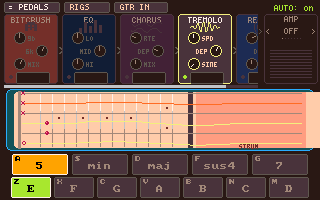
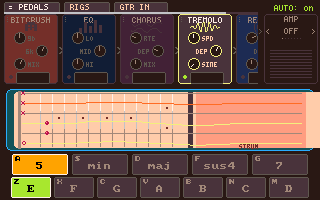
pedalboard: a downward strum no longer grabs the scrollbar or a pedal
The maker: strumming top-to-bottom, it is easy to "mess about in the horizontal
scrollbar" or "accidentaly grab a effect to reorder it".

Both were the same geometry problem, and the numbers are exact:

  pedals        y  14..84    press anywhere on a body = PICK UP TO REORDER
  scroll bar    y  84..90    a 6px GRAB TARGET
  pick zone     y  84..152   the strings

The scroll bar and the pick zone overlapped ON THE SAME 7 PIXELS, and the bar
was tested FIRST, so it swallowed every strum that started there. Two pixels
higher and you were dragging a pedal instead. There was no y at which "start
above the strings and swipe down" did what it looks like it does.

FIX, one split rather than two patches:

  LABEL STRIP (y PED_Y..PED_Y+12, now wearing grip dots) = the reorder handle.
  PEDAL BODY                                             = pan the chain 1:1.
  scroll bar                                             = gone as a target.

So a vertical swipe over the rack is a pan with ~zero horizontal delta, i.e.
harmless, and the 84..90 band falls through to the guitar. Reorder survives,
now on an explicit labelled handle -- which also makes the cart's own
description true, since it already claimed you drag a pedal "by its label".

The bar itself moves to the TOP of the rack (the maker's suggestion) and thins
6px -> 2px: away from the strum, and plainly a readout rather than something to
grab. Dragging a body is a better touch target than the bar ever was, and the
[…]

Changed region(s): [[0.0, 0.42, 0.8125, 0.45], [0.0, 0.06, 0.8125, 0.09]]

diff --git a/tools/carts/pedalboard.c b/tools/carts/pedalboard.c
@@ -14,7 +14,7 @@
     "granular-synth"
   ],
   "lineage": "Showcase cart for fx_order() (the reorderable effect insert chain); guitar fretboard with moveable barre-chord shapes is new to the library, as is the GRAINS granular-delay pedal.",
-  "description": "An electric guitar you PLAY through a CHAIN of stompboxes you BUILD - the showcase for fx_order(): the order pedals sit in the chain is the order the engine runs them, so moving a pedal actually changes the tone (bitcrush BEFORE vs AFTER eq sounds different). Tap '= PEDALS' (top-left) to open the palette - a tray of 9 effects drawn as little icon+name chips (BITCRUSH, EQ, CHORUS, PHASER, FLANGER, TAPE, TREMOLO, WAH, REVERB). Drag a chip UP into the chain to add it, drag a chain pedal by its label sideways to reorder, drag one DOWN out to remove; a scrollbar appears when the chain outgrows the screen. Each pedal has its real knob row (drag to dial) and footswitch (tap, or 1-9 by position). Below: a real six-string guitar (INSTR_GUITAR) - pick a chord on the ROOT (Z X C V B N M) + SHAPE (A S D F G) rows, then sweep the strings to strum (SPACE strums; M-row autoplay). Mouse and touch both work, every finger its own pointer. (REVERB and DELAY are real dry/wet INSERTS (reverb_insert/echo_insert), so their chain position is audible - crush the wet tail or reverb the crushed guitar.) The OD pedal's VOICE knob picks a famous dirt box via drive_voice() - RAW / Tube Screamer (mid hump) / RAT (hard clip + filter) / Big Muff (fuzz + scoop) - with TONE riding that voice."
+  "description": "An electric guitar you PLAY through a CHAIN of stompboxes you BUILD - the showcase for fx_order(): the order pedals sit in the chain is the order the engine runs them, so moving a pedal actually changes the tone (bitcrush BEFORE vs AFTER eq sounds different). Tap '= PEDALS' (top-left) to open the palette - a tray of 9 effects drawn as little icon+name chips (BITCRUSH, EQ, CHORUS, PHASER, FLANGER, TAPE, TREMOLO, WAH, REVERB). Drag a chip UP into the chain to add it. A pedal's LABEL STRIP (the grip dots) is its handle: drag it sideways to reorder, or DOWN out of the rack to remove. Dragging a pedal's BODY pans the chain sideways instead (the mouse wheel does it too), so a downward swipe over the rack never grabs a pedal by accident and never steals a strum aimed at the strings; a thin position bar sits along the TOP of the rack. Each pedal has its real knob row (drag to dial) and footswitch (tap, or 1-9 by position). Below: a real six-string guitar (INSTR_GUITAR) - pick a chord on the ROOT (Z X C V B N M) + SHAPE (A S D F G) rows, then sweep the strings to strum (SPACE strums; M-row autoplay). Mouse and touch both work, every finger its own pointer. (REVERB and DELAY are real dry/wet INSERTS (reverb_insert/echo_insert), so their chain position is audible - crush the wet tail or reverb the crushed guitar.) The OD pedal's VOICE knob picks a famous dirt box via drive_voice() - RAW / Tube Screamer (mid hump) / RAT (hard clip + filter) / Big Muff (fuzz + scoop) - with TONE riding that voice."
 }
 de:meta */
 // pedalboard — an electric guitar you PLAY, through a CHAIN of stompboxes you BUILD. The showcase
@@ -27,7 +27,8 @@ de:meta */
 //   • DRAG a chain pedal by its LABEL sideways to REORDER it (the sound reorders with it).
 //   • DRAG a chain pedal DOWN out of the chain to REMOVE it (it returns to the palette).
 //   • drag a KNOB to dial it; tap the FOOTSWITCH to toggle on/off; 1..9 toggle by position.
-// The chain can outgrow the screen — a scrollbar appears; drag it to pan. (REVERB is now a real
+// The chain can outgrow the screen — pan it by dragging a pedal BODY sideways (or the wheel); a
+// thin position bar sits along the top of the rack. (REVERB is now a real
 // dry/wet INSERT (reverb_insert, Increment C), so its POSITION is audible — put it before the
 // bitcrush to crush the wet tail, or after to reverb the crushed guitar. See effects-bus-architecture.md.)
 // The VOWEL pedal (formant filter) makes the guitar TALK; its MOD knob picks what moves the vowel —
@@ -306,7 +307,8 @@ static int   ap_gtr_in = -1;      // applied-state shadow — push input_monitor
 #define CAB_X   (saX + saW - CAB_W - 2)    // right-pinned to the safe-area edge (clears the notch)
 #define VIEW_W  view_w()             // chain viewport width: fills from CHAIN_X0 up to the cabinet
 #define VIEW_R  (CHAIN_X0 + view_w())
-#define SB_Y    (PED_Y + PED_H)      // scrollbar track (only drawn on overflow)
+// (SB_Y retired: the scroll bar was a 6px GRAB TARGET here, directly in the strum's landing zone.
+//  It is now a 2px indicator at PED_Y-2 and not a press target at all.)
 #define ILLU_CY (PED_Y + 13)         // illustration center — pulled up, padding trimmed
 #define PAL_Y   (saY + 88)           // palette panel top (when open); a taller canvas just fits more rows
 #define SX0   (saX + 22)             // nut (neck end)
@@ -593,7 +595,7 @@ static void apply_fx(void) {
 }
 
 // ── per-contact pointer pool ── (declared before init so init() can PTR_CLEAR it)
-enum { PTR_IDLE, PTR_KNOB, PTR_PICK, PTR_DRAGSLOT, PTR_DRAGPAL, PTR_SCROLL, PTR_CABKNOB };
+enum { PTR_IDLE, PTR_KNOB, PTR_PICK, PTR_DRAGSLOT, PTR_DRAGPAL, PTR_SCROLL, PTR_CABKNOB, PTR_PAN };
 typedef struct { int id, mode, slot, knob, cat, prevY, x, y; } Ptr;   // id MUST be first (pointer.h)
 static Ptr ptr[PTR_MAX];
 
@@ -782,7 +784,15 @@ void update(void) {
                         km_grab(chain[s].cat, hitk, chain[s].k[hitk]);
                         p->mode = PTR_KNOB; p->slot = s; p->knob = hitk;
                     }
-                    else { p->mode = PTR_DRAGSLOT; p->slot = s; p->cat = chain[s].cat; }   // anywhere else = drag handle
+                    // REORDER is now the HEADER STRIP only; the body PANS the chain sideways.
+                    // Before, the whole pedal body was the reorder handle AND the only touch scroll
+                    // was a 6px bar at PED_Y+PED_H — which is exactly where a downward strum starts.
+                    // So a strum aimed at the strings either grabbed the scrollbar or picked up a
+                    // pedal. Splitting them fixes both: a vertical swipe on a body is a pan with
+                    // ~zero horizontal delta, i.e. harmless, and the strum band is no longer stolen.
+                    // It also makes the cart's own description true ("drag a pedal by its LABEL").
+                    else if (ty < PED_Y + 12) { p->mode = PTR_DRAGSLOT; p->slot = s; p->cat = chain[s].cat; }
+                    else                      { p->mode = PTR_PAN; }
                 }
             }
             // 1b. the pinned CABINET box (right of the chain): header taps cycle the tenant, the
@@ -808,8 +818,9 @@ void update(void) {
                     }
                 }
             }
-            // 2. scrollbar
-            if (p->mode == PTR_IDLE && overflow && ty >= SB_Y && ty <= SB_Y + 6) p->mode = PTR_SCROLL;
+            // 2. (the scroll bar is an INDICATOR now, not a target — it used to sit in the strum's
+            //     way and got tested BEFORE the guitar, so it swallowed the gesture. Pan the chain
+            //     by dragging a pedal body, or use the wheel.)
             // 3. palette chips (only when open)
             if (p->mode == PTR_IDLE && palette_open && ty >= PAL_Y) {
                 int avail[NCAT], na = pal_avail(avail);
@@ -855,6 +866,8 @@ void update(void) {
             p->prevY = ty;
         } else if (p->mode == PTR_SCROLL) {
             scroll_x += (tx - p->x) * (content_w() / (float)VIEW_W); clamp_scroll();
+        } else if (p->mode == PTR_PAN) {
+            scroll_x -= (tx - p->x); clamp_scroll();     // 1:1, content follows the finger
         }
         p->x = tx; p->y = ty;
     }
@@ -935,6 +948,8 @@ static void draw_chain_pedal(int i, int x) {
     rrect(x, PED_Y, PED_W, PED_H, 4, sl->on ? d->accent : CLR_DARKER_GREY);
     font(FONT_SMALL);
     print_centered(d->name, cx, PED_Y + 3, sl->on ? CLR_WHITE : CLR_MEDIUM_GREY);
+    for (int g = 0; g < 3; g++)                                  // grip dots: this strip is the
+        pset(x + 3, PED_Y + 3 + g * 2, CLR_DARK_GREY);           // reorder handle (drag it sideways)
     if (d->kind == -1)      lofi_icon(cx, ILLU_CY, sl->on ? d->accent : CLR_DARKER_GREY);
     else if (d->kind == -2) fuzz_icon(cx, ILLU_CY, sl->on ? d->accent : CLR_DARKER_GREY);
     else if (d->kind == -3) shimmer_icon(cx, ILLU_CY, sl->on ? d->accent : CLR_DARKER_GREY);
@@ -1037,7 +1052,7 @@ static void draw_rigs(void) {
 }
 
 static void draw_guitar(void) {
-    int by = STR_TOP - 4, bh = (STR_BOT + 8) - by;   // clears the scrollbar above; the neck is taller now
+    int by = STR_TOP - 4, bh = (STR_BOT + 8) - by;   // the old scroll bar sat here; the neck owns it now
     rrectfill(saX + 6, by, saW - 12, bh, 6, CLR_BLUE_GREEN);
     rrect(saX + 6, by, saW - 12, bh, 6, CLR_BLUE);
     rrectfill(SX0 - 8, by + 3, SX1 - SX0 + 28, bh - 6, 4, CLR_LIGHT_PEACH);
@@ -1237,12 +1252,14 @@ void draw(void) {
     }
     if (chain_n == 0) { font(FONT_SMALL); print_centered("open PEDALS, drag effects in →", saX + saW / 2, PED_Y + 32, CLR_DARK_GREY); font(FONT_NORMAL); }
 
-    // scrollbar (only on overflow)
+    // SCROLL INDICATOR — moved to the TOP of the rack and thinned to 2px. It used to be a 6px
+    // grabbable bar directly above the strings, i.e. in the strum's landing zone; up here it is out
+    // of the way and, being 2px, plainly a readout rather than something to grab.
     if (max_scroll() > 0) {
-        rectfill(CHAIN_X0, SB_Y + 1, VIEW_W, 3, CLR_DARKER_GREY);
+        rectfill(CHAIN_X0, PED_Y - 2, VIEW_W, 2, CLR_DARKER_GREY);
         int tw = VIEW_W * VIEW_W / content_w();
         int tx = CHAIN_X0 + (int)(scroll_x / max_scroll() * (VIEW_W - tw));
-        rectfill(tx, SB_Y + 1, tw, 3, CLR_LIGHT_GREY);
+        rectfill(tx, PED_Y - 2, tw, 2, CLR_LIGHT_GREY);
     }
 
     if (palette_open)  draw_palette();
